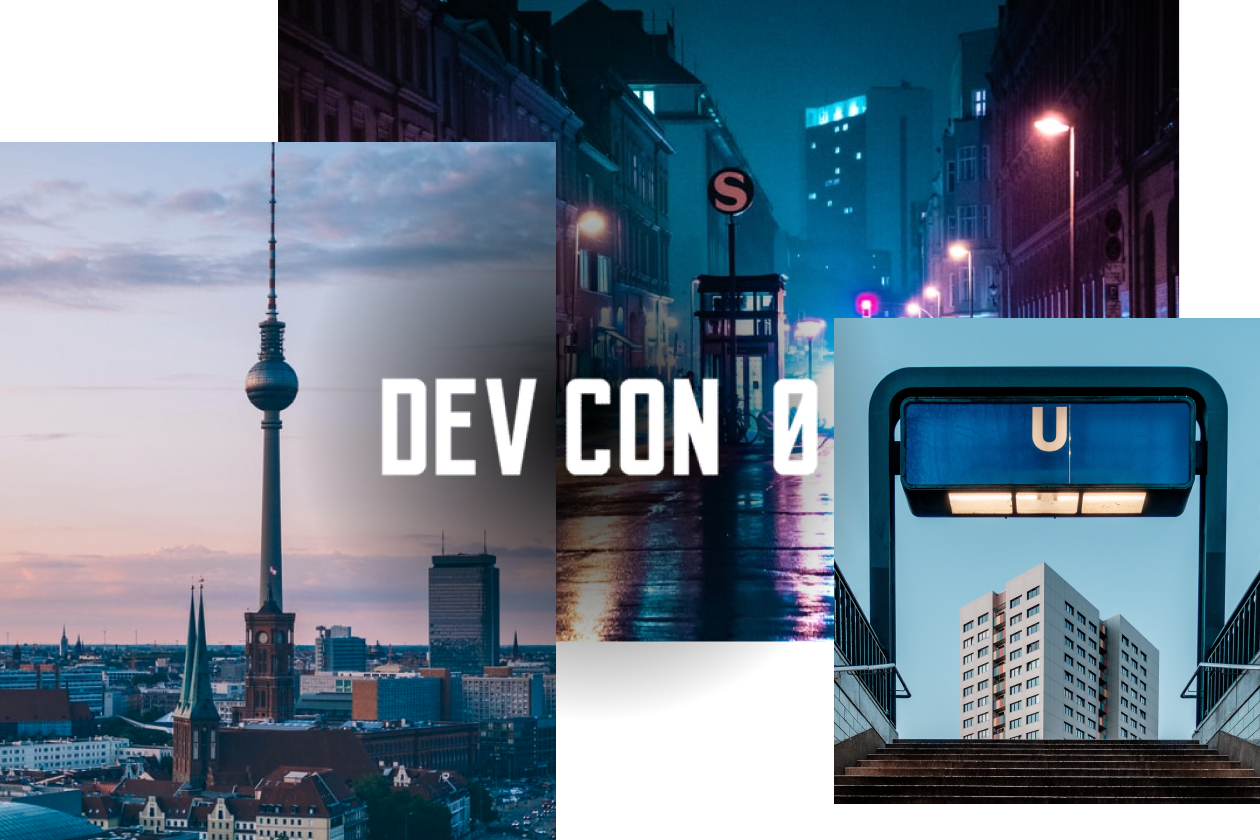
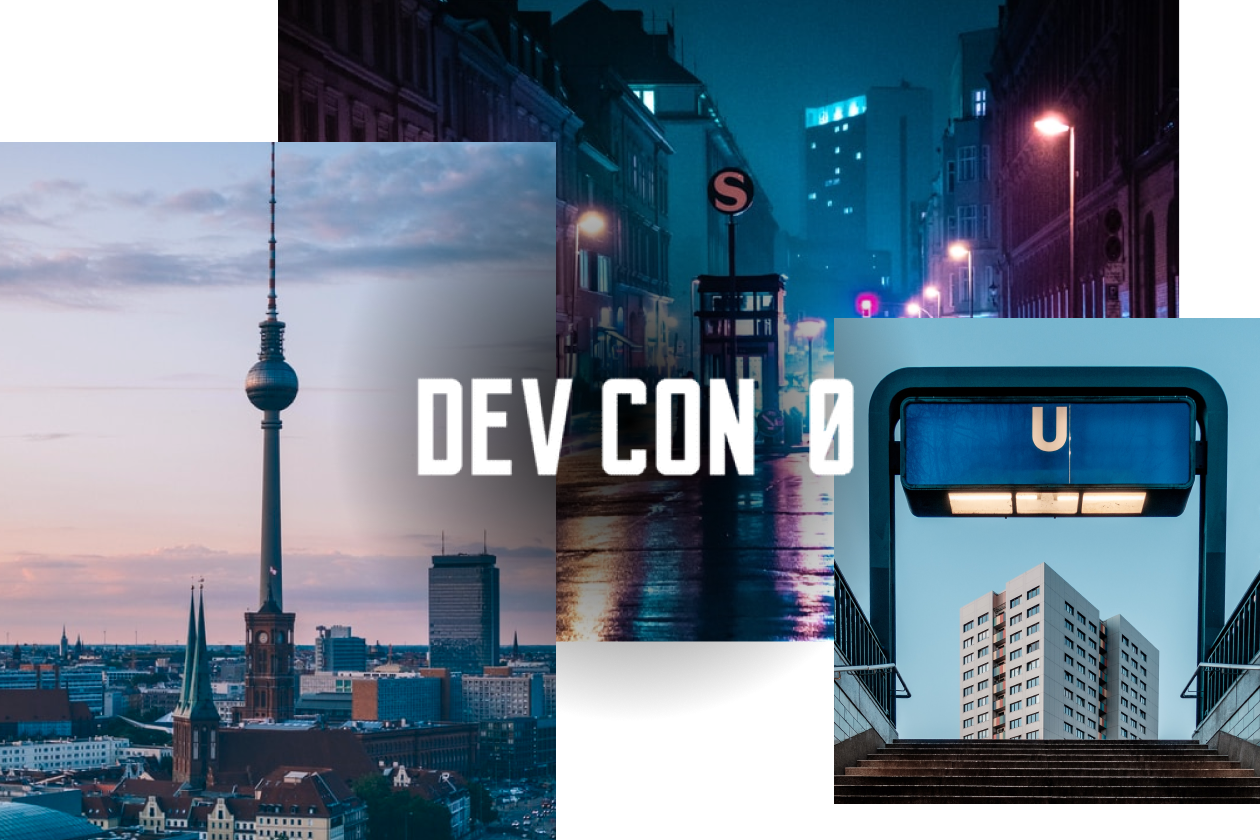
Update devcon edition images 0 and 5. Card changes. Loading indicator moved to top on mobile (fixes being hidden under keyboard when searching). Misc.

Changed region(s): [[0.2476, 0.3714, 0.7119, 0.681], [0.681, 0.3405, 0.7119, 0.3714]]

diff --git a/src/components/common/layouts/footer/ArchiveFooter.tsx b/src/components/common/layouts/footer/ArchiveFooter.tsx
@@ -1,7 +1,7 @@
 import React from 'react'
 import css from './footer.module.scss'
 import IconArrowUpward from 'src/assets/icons/arrow_upward.svg'
-import smallLogo from 'src/assets/images/footer-logo.svg'
+import smallLogo from 'src/assets/images/ef-logo.svg'
 import { useIntl } from 'gatsby-plugin-intl'
 import { Link } from 'src/components/common/link'
 import { Link as LinkType } from 'src/types/Link'
@@ -24,29 +24,29 @@ export const ArchiveFooter = () => {
         {
           title: 'Watch',
           url: '/archive/watch/',
-          type: 'link'
+          type: 'link',
         },
         {
           title: 'Playlists',
           url: '/archive/playlists/',
-          type: 'link'
+          type: 'link',
         },
         {
           title: 'Road to Devcon',
           url: 'https://www.devcon.org/',
-          type: 'link'
+          type: 'link',
         },
         {
           title: 'Forum',
           url: 'https://forum.devcon.org/',
-          type: 'link'
+          type: 'link',
         },
         {
           title: 'Blog',
           url: 'https://blog.ethereum.org/category/devcon/',
-          type: 'link'
-        }
-      ]
+          type: 'link',
+        },
+      ],
     }
   }
 
@@ -54,7 +54,6 @@ export const ArchiveFooter = () => {
     <footer className={`footer ${css['container']} ${css['archive']}`}>
       <div className={css['top-section']}>
         <div className={css['content']}>
-          
           <div className={css['col-1']}>
             <Link to={`/${lang}/`} style={{ maxWidth: '200px', minWidth: '130px', display: 'block' }}>
               <HeaderLogoArchive />
@@ -66,11 +65,10 @@ export const ArchiveFooter = () => {
           <div className={css['col-2']}>
             <div>
               <p className="semi-bold">About Devcon —</p>
+              <p>Devcon is the Ethereum conference for developers, researchers, thinkers, and makers.</p>
               <p>
-                Devcon is the Ethereum conference for developers, researchers, thinkers, and makers.
-              </p>
-              <p>
-                An intensive introduction for new Ethereum explorers, a global family reunion for those already a part of our ecosystem, and a source of energy and creativity for all.
+                An intensive introduction for new Ethereum explorers, a global family reunion for those already a part
+                of our ecosystem, and a source of energy and creativity for all.
               </p>
             </div>
           </div>
@@ -108,7 +106,6 @@ export const ArchiveFooter = () => {
               />
             </div>
           </div>
-
         </div>
       </div>
 

diff --git a/src/components/common/page-hero/page-hero.module.scss b/src/components/common/page-hero/page-hero.module.scss
@@ -1,10 +1,7 @@
 @use 'src/assets/css/partials/index' as *;
 
 .hero {
-  position: sticky;
-  // "Pulls up" the entire section except for the page menu, effectively making it look like just the page menu is sticky
-  top: var(--negative-offset, -1000px);
-  z-index: 10;
+  position: relative;
   overflow: hidden;
   width: 100%;
   // padding-top: $gaps-gap-4;
@@ -89,17 +86,21 @@
 
   &.with-navigation {
     box-shadow: var(--header-shadow, 0px 4px 2px rgba(0, 0, 0, 0.15));
+    position: sticky;
+    // "Pulls up" the entire section except for the page menu, effectively making it look like just the page menu is sticky
+    top: var(--negative-offset, -1000px);
+    z-index: 10;
+
+    // Strip is always present on mobile (but not on desktop) - we have to account for that:
+    &.scrolled {
+      @media (max-width: $breakpoints-lg) {
+        top: calc(var(--negative-offset) + var(--strip-height));
+      }
+    }
   }
 
   &:not(.with-navigation) {
     // margin-bottom: $gaps-gap-4;
-  }
-
-  // Strip is always present on mobile (but not on desktop) - we have to account for that:
-  &.scrolled {
-    @media (max-width: $breakpoints-lg) {
-      top: calc(var(--negative-offset) + var(--strip-height));
-    }
   }
 
   &.custom-background {

diff --git a/src/components/common/loader/loader.module.scss b/src/components/common/loader/loader.module.scss
@@ -8,12 +8,7 @@
   left: 0px;
   right: 0px;
   bottom: 0px;
-  //   background: rgba(0, 0, 0, 0.1);
-  opacity: 0;
-  //   transition: opacity 0.2s linear;
-  //   display: none;
-  //   justify-content: center;
-  //   align-items: center;
+  display: none;
 
   &.as-overlay {
     position: fixed;
@@ -22,8 +17,7 @@
   &.loading,
   &.no-results,
   &.error {
-    opacity: 1;
-    // display: flex;
+    display: block;
 
     .message {
       display: flex;
@@ -47,8 +41,9 @@
   }
 
   .message {
-    z-index: 1;
+    z-index: 10000;
     position: sticky;
+    top: var(--headerHeight, 54px);
     padding: $gaps-gap-2;
     background: $colors-main;
     color: white;
@@ -61,16 +56,16 @@
     align-items: center;
     justify-content: center;
     align-self: flex-start;
-    top: 54px;
 
     .text {
       margin-right: $gaps-gap-3;
     }
 
     @media (max-width: $breakpoints-lg) {
+      @include fonts-sm-fixed;
       position: fixed;
-      bottom: 0px;
-      top: auto;
+      // bottom: 0px;
+      // top: auto;
       left: 0px;
       right: 0px;
       z-index: 100;

diff --git a/src/components/common/loader/Loader.tsx b/src/components/common/loader/Loader.tsx
@@ -1,5 +1,6 @@
 import React from 'react'
 import css from './loader.module.scss'
+import useGetElementHeight from 'src/hooks/useGetElementHeight'
 // import { RefObject } from 'react'
 
 type MessageType = 'loading' | 'error' | 'noResults'
@@ -21,6 +22,7 @@ type LoaderProps = {
 
 export const Loader = (props: LoaderProps) => {
   let className = css['loading-overlay']
+  const headerHeight = useGetElementHeight('header')
 
   if (props.asOverlay) className += ` ${css['as-overlay']}`
   if (props.loading) className += ` ${css['loading']}`
@@ -34,7 +36,7 @@ export const Loader = (props: LoaderProps) => {
   })()
 
   return (
-    <div className={className}>
+    <div className={className} style={{ '--headerHeight': `${headerHeight}px` }}>
       <div className={css['message']}>
         <span className={css['text']}>{currentState}</span>
         {props.loading && !props.error && <div className="spinner"></div>}

diff --git a/src/components/domain/archive/Watch.tsx b/src/components/domain/archive/Watch.tsx
@@ -78,10 +78,6 @@ export const Watch = resetOnPageNavigationHOC((props: WatchProps) => {
 
   const { data, isLoading, isError } = useArchiveSearch(qs, { from: from, size: defaultPageSize })
 
-  useEffect(() => {
-    console.log('Watch mounted')
-  }, [])
-
   // Reset pagination on filter change
   useEffect(() => {
     setFrom(0)
@@ -144,8 +140,6 @@ export const Watch = resetOnPageNavigationHOC((props: WatchProps) => {
             </div>
             <div className={css['videos']} ref={videoContainerElement}>
               <Loader
-                // asOverlay
-                // relativeTo={videoContainerElement}
                 loading={isLoading}
                 error={isError}
                 noResults={data && data.items && data.items.length === 0}

diff --git a/src/components/common/layouts/footer/Footer.tsx b/src/components/common/layouts/footer/Footer.tsx
@@ -5,7 +5,7 @@ import IconGithub from 'src/assets/icons/github.svg'
 import IconTwitter from 'src/assets/icons/twitter.svg'
 import IconYoutube from 'src/assets/icons/youtube.svg'
 import logo from 'src/assets/images/test-asset.svg'
-import smallLogo from 'src/assets/images/footer-logo.svg'
+import smallLogo from 'src/assets/images/ef-logo.svg'
 import { useIntl } from 'gatsby-plugin-intl'
 import { Link } from 'src/components/common/link'
 import { Link as LinkType } from 'src/types/Link'

diff --git a/src/assets/css/partials/_colors.scss b/src/assets/css/partials/_colors.scss
@@ -72,9 +72,9 @@ $state-neutral-light: $monochrome-1;
   // background: darken($monochrome-1, 5%);
 
   // For use by Button component (animates colors when hovering)
-  --button-color: #{$monochrome-1};
-  --button-color-background: #{$main};
-  --button-color-background-hover: #{lighten($main, 15%)};
+  --button-color: #{$main};
+  --button-color-background: #{$monochrome-1};
+  --button-color-background-hover: #{darken($monochrome-1, 15%)};
 
   &.ghost {
     @include white;

diff --git a/src/components/common/layouts/footer/footer.module.scss b/src/components/common/layouts/footer/footer.module.scss
@@ -136,6 +136,9 @@
   border-top: 1px solid #e0e0e0;
 
   &.archive {
+    --theme-logo: url('src/assets/images/pages/archive-1.svg');
+    --theme-gradient: linear-gradient(to right, #edeccd 0%, #f1c4bb 50%, #d7cdd3 100%);
+
     .col-2 {
       @media (max-width: $breakpoints-lg) {
         margin-top: 0px !important;

diff --git a/src/components/domain/archive/playlists/curated.module.scss b/src/components/domain/archive/playlists/curated.module.scss
@@ -69,6 +69,7 @@
 
   .image {
     object-fit: cover;
+    background-color: #f1f1f1;
   }
 
   .body {
@@ -98,7 +99,7 @@
 
   &.big {
     .body {
-      padding-left: $gaps-gap-8;
+      padding-left: $gaps-gap-4;
       padding-top: $gaps-gap-4;
 
       .title {

diff --git a/src/components/common/card/card.module.scss b/src/components/common/card/card.module.scss
@@ -1,6 +1,10 @@
 @use 'src/assets/css/partials/index' as *;
 
 .card {
+  &:hover {
+    box-shadow: 0px 4px 11px rgba($colors-monochrome-10, 0.2);
+  }
+
   box-shadow: 0px 4px 11px rgba($colors-monochrome-10, 0.1);
   color: $colors-main;
   display: flex;

diff --git a/src/content/devcon/6.md b/src/content/devcon/6.md
@@ -1,7 +1,7 @@
 ---
 number: 6
 title: Devcon VI
-description: 'The Ethereum conference for developers, researchers, thinkers and makers.'
+description: 'The sixth edition of Devcon was originally planned for October 2020 in Bogota, Colombia to keep in-line with the annual tradition. However, due the global pandemic the event has been postponed until further notice. In the meantime, be sure to join us on the Road to Devcon initiatives with local events, quests, and much more.'
 location: 'Bogota, Colombia'
 image: ../../../static/assets/uploads/editions/devcon6.png
 urls:
